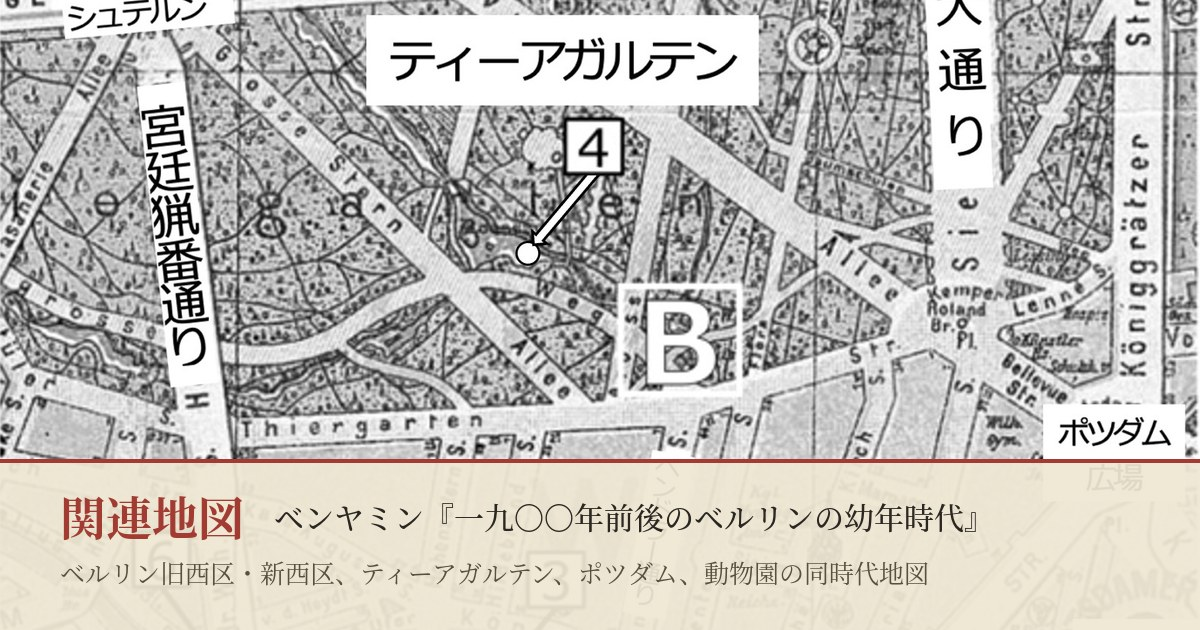
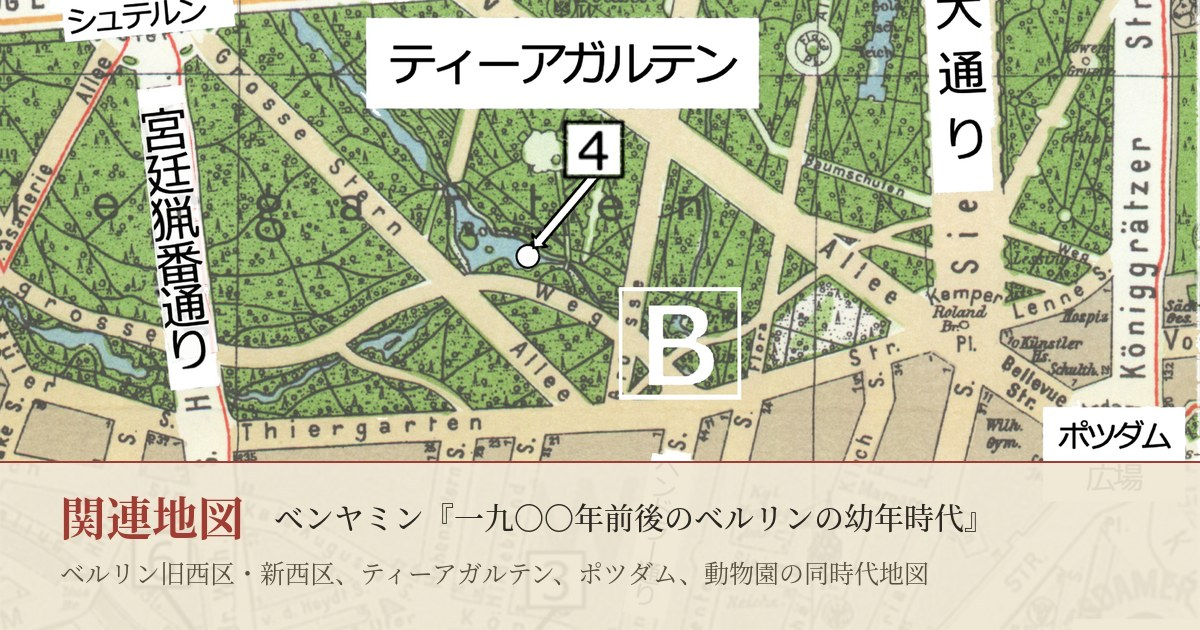
Add files via upload

diff --git a/maps.html b/maps.html
@@ -7,7 +7,7 @@
 <meta name="description" content="『一九〇〇年前後のベルリンの幼年時代』関連地図。ベルリン旧西区・新西区、ティーアガルテン、ポツダム、ベルリン動物園の同時代地図（1893〜1910年）を拡大表示できます。">
 <meta property="og:title" content="関連地図｜『一九〇〇年前後のベルリンの幼年時代』">
 <meta property="og:description" content="ベルリン旧西区・新西区、ティーアガルテン、ポツダム、ベルリン動物園の同時代地図に、本書に登場する場所を記入。">
-<meta property="og:image" content="https://berliner-kindheit.jp/images/ogp/maps.jpg">
+<meta property="og:image" content="https://berliner-kindheit.jp/images/ogp/maps.jpg?v=2">
 <meta property="og:image:width" content="1200">
 <meta property="og:image:height" content="630">
 <meta property="og:url" content="https://berliner-kindheit.jp/maps.html">
@@ -50,14 +50,14 @@
 
     <article class="karte" id="karte-1">
       <figure>
-        <button class="rahmen js-lupe" type="button" data-src="maps/01_karte-AlterWesten1904.jpg" data-titel="地図1　ベルリン旧西区およびティーアガルテン東部（1904）">
-          <img src="thumbs/01_karte-AlterWesten1904.jpg" loading="lazy" alt="1904年のベルリン旧西区とティーアガルテン東部の地図。ティーアガルテン、戦勝大通り、ポツダム広場・駅などに日本語の注記がある。">
+        <button class="rahmen js-lupe" type="button" data-src="maps/01_karte-AlterWesten1902.jpg" data-titel="地図1　ベルリン旧西区およびティーアガルテン東部（1902）">
+          <img src="thumbs/01_karte-AlterWesten1902.jpg" loading="lazy" alt="1902年のベルリン旧西区とティーアガルテン東部の地図。ティーアガルテン、戦勝大通り、ポツダム広場・駅などに日本語の注記がある。">
         </button>
       </figure>
       <div>
         <div class="kartenkopf">
           <span class="marke">1</span>
-          <h3>ベルリン旧<ruby>西区<rt>ヴェステン</rt></ruby>およびティーアガルテン東部<span class="jahr">1904</span>
+          <h3>ベルリン旧<ruby>西区<rt>ヴェステン</rt></ruby>およびティーアガルテン東部<span class="jahr">1902</span>
 </h3>
         </div>
         <p>
@@ -77,8 +77,8 @@
 <li>6　ヘラクレス橋</li>
 </ul>
         </details>
-        <p class="quelle">出典：<cite>Pharus-Plan Berlin</cite> (1904)</p>
-        <button class="lupe js-lupe" type="button" data-src="maps/01_karte-AlterWesten1904.jpg" data-titel="地図1　ベルリン旧西区およびティーアガルテン東部（1904）">拡大表示</button>
+        <p class="quelle">出典：<cite>Pharus-Plan Berlin</cite> (1902)。本書所収の地図を改訂。</p>
+        <button class="lupe js-lupe" type="button" data-src="maps/01_karte-AlterWesten1902.jpg" data-titel="地図1　ベルリン旧西区およびティーアガルテン東部（1902）">拡大表示</button>
       </div>
     </article>
 
@@ -145,14 +145,14 @@
 
     <article class="karte" id="karte-2">
       <figure>
-        <button class="rahmen js-lupe" type="button" data-src="maps/02_karte-NeuerWesten1904.jpg" data-titel="地図2　ベルリン新西区（1904）">
-          <img src="thumbs/02_karte-NeuerWesten1904.jpg" loading="lazy" alt="1904年のベルリン新西区の地図。シャルロッテンブルク駅、動物園駅、サヴィニー広場、クアフュルステンダムに日本語の注記があり、クルンメ通りの経路が点線で示されている。">
+        <button class="rahmen js-lupe" type="button" data-src="maps/02_karte-NeuerWesten1902.jpg" data-titel="地図2　ベルリン新西区（1902）">
+          <img src="thumbs/02_karte-NeuerWesten1902.jpg" loading="lazy" alt="1902年のベルリン新西区の地図。シャルロッテンブルク駅、動物園駅、サヴィニー広場、クアフュルステンダムに日本語の注記があり、クルンメ通りの経路が点線で示されている。">
         </button>
       </figure>
       <div>
         <div class="kartenkopf">
           <span class="marke">2</span>
-          <h3>ベルリン新<ruby>西区<rt>ヴェステン</rt></ruby><span class="jahr">1904</span>
+          <h3>ベルリン新<ruby>西区<rt>ヴェステン</rt></ruby><span class="jahr">1902</span>
 </h3>
         </div>
         <p>
@@ -164,22 +164,22 @@
           <summary>番号対照（1〜6）</summary>
           <ul>
 <li>1　ベンヤミン家の住まい（1903–1909年）</li>
-<li>2　カイザー・フリードリヒ学校</li>
+<li>2　カイザー・フリードリヒ学校（すでに開校しているが、地図には未記載）</li>
 <li>3　動物園</li>
 <li>4　新しい湖（ノイアー・ゼー）</li>
 <li>5　シャルロッテンブルク市営浴場</li>
 <li>6　クルンメ通りの文房具店（推定）</li>
 </ul>
         </details>
-        <p class="quelle">出典：<cite>Pharus-Plan Berlin</cite> (1904)</p>
-        <button class="lupe js-lupe" type="button" data-src="maps/02_karte-NeuerWesten1904.jpg" data-titel="地図2　ベルリン新西区（1904）">拡大表示</button>
+        <p class="quelle">出典：<cite>Pharus-Plan Berlin</cite> (1902)。本書所収の地図を改訂。</p>
+        <button class="lupe js-lupe" type="button" data-src="maps/02_karte-NeuerWesten1902.jpg" data-titel="地図2　ベルリン新西区（1902）">拡大表示</button>
       </div>
     </article>
 
     <article class="karte" id="karte-3">
       <figure>
-        <button class="rahmen js-lupe" type="button" data-src="maps/03_karte-Potsdam1898.jpg" data-titel="地図3　ポツダムとその近郊（1898）">
-          <img src="thumbs/03_karte-Potsdam1898.jpg" loading="lazy" alt="1898年のポツダムとその近郊の地図。ポツダム市街、サンスーシ庭園、グリープニッツ湖、ハーフェル川に日本語の注記がある。">
+        <button class="rahmen js-lupe" type="button" data-src="maps/03_karte-Potsdam1898.jpg?v=2" data-titel="地図3　ポツダムとその近郊（1898）">
+          <img src="thumbs/03_karte-Potsdam1898.jpg?v=2" loading="lazy" alt="1898年のポツダムとその近郊の地図。ポツダム市街、サンスーシ庭園、グリープニッツ湖、ハーフェル川に日本語の注記がある。">
         </button>
       </figure>
       <div>
@@ -208,7 +208,7 @@
 </ul>
         </details>
         <p class="quelle">出典：<cite>Kiesslings Wanderbuch für die Mark Brandenburg</cite> (1898)</p>
-        <button class="lupe js-lupe" type="button" data-src="maps/03_karte-Potsdam1898.jpg" data-titel="地図3　ポツダムとその近郊（1898）">拡大表示</button>
+        <button class="lupe js-lupe" type="button" data-src="maps/03_karte-Potsdam1898.jpg?v=2" data-titel="地図3　ポツダムとその近郊（1898）">拡大表示</button>
       </div>
     </article>
 

diff --git a/info.html b/info.html
@@ -88,7 +88,7 @@
 <a href="https://landesarchiv-berlin.de/uebersicht-der-online-recherche">ベルリン州立文書館：オンライン資料案内</a><span class="wozu">HistoMap Berlin など、歴史地図の検索・閲覧サービスへの入口。</span>
 </li>
 <li>
-<a href="https://commons.wikimedia.org/wiki/File:Berlin_Pharus-Plan_c1905.jpg">Pharus-Plan Berlin（1904年）</a><span class="wozu">地図1・2の原資料。Wikimedia Commons。</span>
+<a href="https://commons.wikimedia.org/wiki/File:Berlin_Pharus-Plan_c1905.jpg">Pharus-Plan Berlin（1904年）</a><span class="wozu">本書所収の地図1・2の原資料。Wikimedia Commons。このサイトの地図1・2は、1902年版の同図にもとづいて改訂したもの。</span>
 </li>
 <li>
 <a href="https://daten.berlin.de/datensaetze/straubes-ubersichtsplan-von-berlin-historische-mitte-wms-1aa30716">Straubes Übersichtsplan von Berlin（1910年）</a><span class="wozu">ベルリン州立文書館提供の地図データ。地図1A・1Bの原資料。</span>
